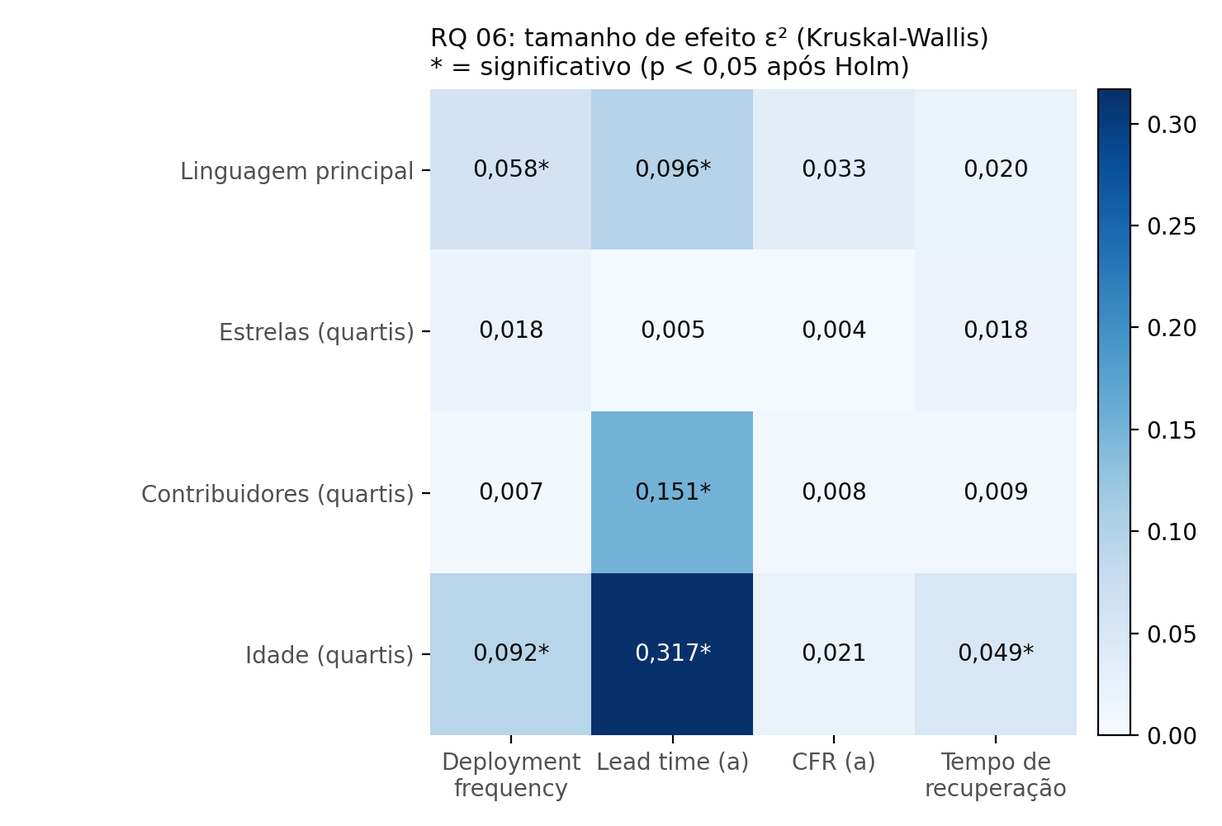
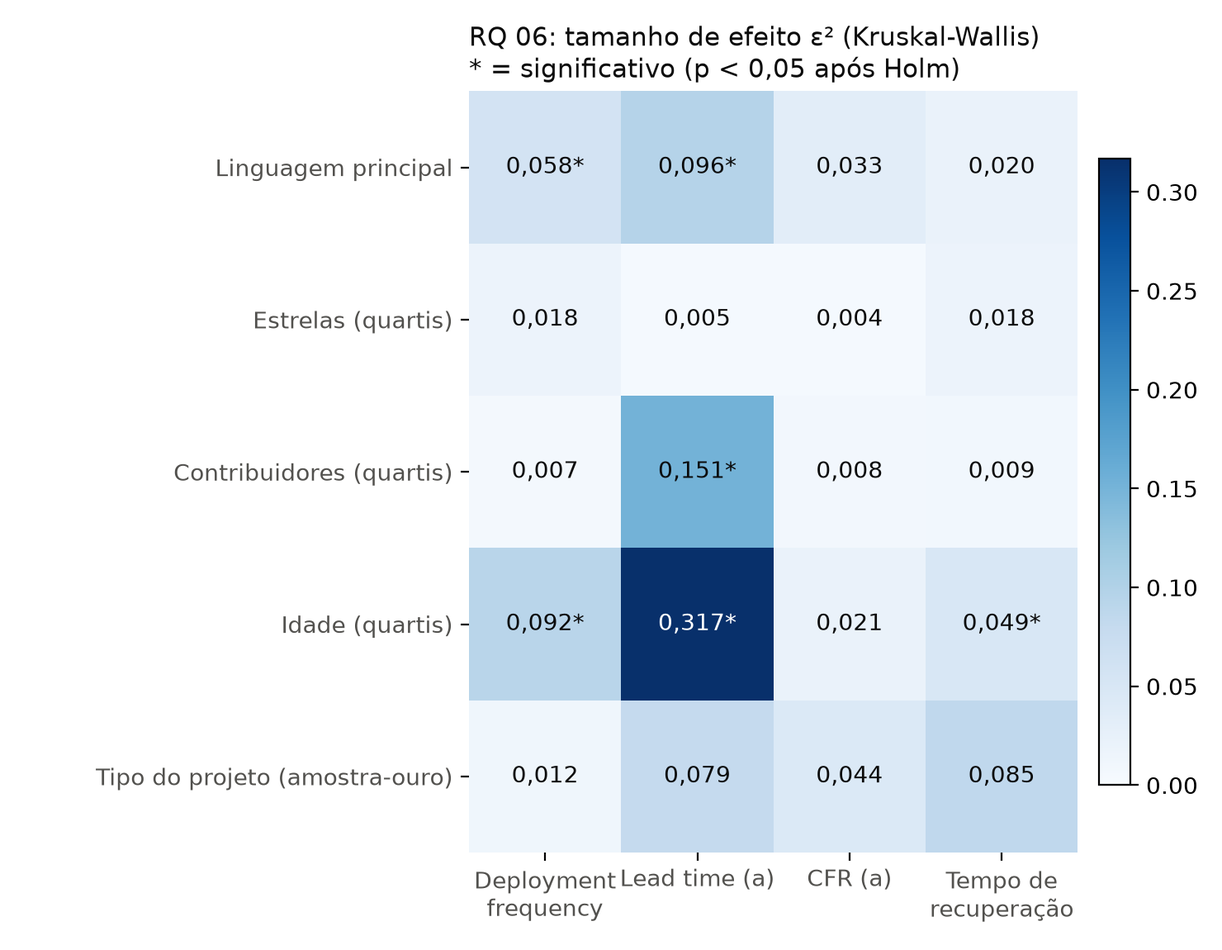
docs: concordancia, avaliacao da heuristica e tipo do projeto na RQ 06 (closes #13, closes #19)

diff --git a/reports/rascunho-artigo.md b/reports/rascunho-artigo.md
@@ -87,7 +87,7 @@ Para a análise de sensibilidade (RQ 07), as métricas são recalculadas em trê
 | C2 | release + pré-release | (b) | (b) | `deployment_frequency_with_pre` |
 | C3 | tag | (b) | (a) | `deployment_frequency_tags` |
 
-Na C2, o compare de cada release é feito contra a release anterior de qualquer tipo. Das 383 amostras, 162 publicaram ao menos uma pré-release na janela; nas demais, C1 e C2 diferem só nas variantes de lead time e CFR. Na C3, a data de cada tag é a data do commit apontado (`authoredDate` via GraphQL), como pede o guia. O lead time por tag não foi coletado, porque exigiria um compare por par de tags. Por isso a C3 usa o lead time (b) das releases e muda só a unidade da frequência de deploy. O tempo de recuperação é o mesmo nas três combinações.
+Na C2, o compare de cada release é feito contra a release anterior de qualquer tipo. Dos 383 repositórios, 162 publicaram ao menos uma pré-release na janela; nas demais, C1 e C2 diferem só nas variantes de lead time e CFR. Na C3, a data de cada tag é a data do commit apontado (`authoredDate` via GraphQL), como pede o guia. O lead time por tag não foi coletado, porque exigiria um compare por par de tags. Por isso a C3 usa o lead time (b) das releases e muda só a unidade da frequência de deploy. O tempo de recuperação é o mesmo nas três combinações.
 
 Em cada combinação, cada métrica é classificada em Elite, High, Medium ou Low pelos cortes fixos da disciplina. A categoria geral é a mediana das quatro notas (Elite = 4, High = 3, Medium = 2, Low = 1), arredondada para baixo. Repositórios sem alguma das quatro métricas ficam sem categoria geral.
 
@@ -129,21 +129,66 @@ A rotulação foi independente: cada avaliador trabalhou sozinho, sem ver a plan
 
 ### 4.3 Concordância e consenso
 
-A concordância é medida pelo **kappa de Fleiss** em cada dimensão, sobre os rótulos independentes (antes do consenso), e interpretada pela escala de Landis e Koch (1977). Os casos divergentes são discutidos em reunião, relendo as *release notes* e os commits, e a decisão e o motivo ficam registrados em `data/gold/divergencias.csv`. Se ainda assim não houver acordo, vale o rótulo mais conservador: `nao` para release corretiva, `incerto` para entrega real e `outro` para tipo do projeto. O protocolo completo está em `docs/protocolo-rotulagem.md`.
+A concordância é medida pelo **kappa de Fleiss** em cada dimensão, sobre os rótulos independentes (antes do consenso), e interpretada pela escala de Landis e Koch (1977).
 
-> *Kappa de cada dimensão e número de casos levados à reunião: a preencher após a rotulação (#8, #9).*
+**Tabela 5. Concordância entre os avaliadores, sobre os rótulos independentes.**
+
+| Dimensão | Itens | Concordância | κ de Fleiss | Landis e Koch |
+|---|---:|---:|---:|---|
+| Tipo do projeto | 60 | 91,7% | 0,875 | quase perfeita |
+| Releases são entregas reais | 60 | 95,0% | −0,026 | pobre |
+| Release corretiva | 300 | 74,0% | 0,477 | moderada |
+
+O **tipo do projeto** tem concordância quase perfeita: o README costuma deixar claro se o projeto é uma biblioteca, uma aplicação ou uma ferramenta de linha de comando.
+
+A **entrega real** mostra o paradoxo do kappa (Feinstein e Cicchetti, 1990), em que a concordância é alta e o kappa é baixo.
+- Quase todos os rótulos são "sim" (117 de 120), então dois avaliadores que respondessem "sim" quase sempre já concordariam em 95,1% dos casos por acaso.
+- O kappa mede a concordância acima do acaso, e por isso fica perto de zero.
+- As três divergências foram de um avaliador marcando "não" e o outro "sim". Os dois nunca concordaram num "não".
+
+O resultado não indica um critério ambíguo. Indica uma dimensão que quase não varia na amostra: para os dois avaliadores, as releases de praticamente todos os repositórios levam software utilizável ao usuário. Isso dá algum apoio ao uso de releases como proxy de entrega nesta amostra.
+
+A **release corretiva** tem concordância só moderada.
+- Os avaliadores divergiram em uma de cada quatro releases: um marcou 151 das 300 como corretivas, e o outro, 127.
+- Decidir se o objetivo *principal* de uma release é corrigir um defeito exige interpretar notas de versão que costumam misturar correções, melhorias e manutenção.
+- Se duas pessoas discordam nesse ponto, não se pode esperar que uma regra automática acerte muito mais. Esse é o teto prático da heurística avaliada na seção 4.4.
+
+Houve **86 divergências**: 78 de release corretiva, 5 de tipo do projeto e 3 de entrega real.
+- **O que o protocolo previa:** discutir cada caso relendo as *release notes* e os commits.
+- **O que foi feito:** na reunião de desempate, os avaliadores concluíram que um deles tinha aplicado o critério de forma mais consistente, e o rótulo desse avaliador foi adotado em todas as divergências, sem revisão caso a caso. A decisão está registrada em `data/gold/divergencias.csv` e em `docs/protocolo-rotulagem.md`.
+- **Consequência:** nos 78 casos divergentes de release corretiva (26% das 300 releases), o consenso equivale ao julgamento de um único avaliador. Isso é tratado como ameaça à validade de construto.
 
 ### 4.4 Avaliação da heurística
 
-A heurística de release corretiva é comparada com o rótulo de consenso por precisão, recall e F1, com `sim` como classe positiva. A meta é F1 ≥ 0,70. Abaixo disso, a heurística é refinada a partir dos erros e reavaliada, e cada versão testada fica registrada com o seu F1. Já existem quatro versões prontas para teste: a v1 (PATCH e commit de correção), a v2 (só o commit), a v3 (só o PATCH) e a v4 (PATCH ou commit). O tipo do projeto definido no consenso é usado como fator na RQ 06.
+A heurística de release corretiva é comparada com o rótulo de consenso por precisão, recall e F1, com `sim` como classe positiva.
+- **Releases avaliadas:** 297. As outras 3 são a primeira release do repositório e não têm com o que ser comparadas.
+- **Positivos:** o consenso marca 127 delas (42,8%) como corretivas.
+- **Meta:** F1 ≥ 0,70. Abaixo disso, a heurística é refinada a partir dos erros e reavaliada, e cada versão testada fica registrada com o seu F1.
 
-> *Precisão, recall e F1 de cada versão: a preencher após o consenso (#10).*
+**Tabela 6. Versões da heurística de release corretiva frente ao consenso (n = 297).**
+
+| Versão | Regra | Precisão | Recall | F1 |
+|---|---|---:|---:|---:|
+| v1 (usada nos resultados) | só o PATCH muda **e** há commit de correção | 0,591 | 0,614 | 0,602 |
+| v2 | há commit de correção | 0,430 | 0,898 | 0,582 |
+| v3 | só o PATCH muda | 0,605 | 0,701 | 0,650 |
+| v4 | só o PATCH muda **ou** há commit de correção | 0,442 | 0,984 | 0,610 |
+
+*Commit de correção: mensagem com `fix`, `fixes`, `fixed`, `bugfix`, `hotfix` ou `revert`. Para tags fora do SemVer, a v1 usa só o commit.*
+
+**Nenhuma das quatro versões atinge a meta.** Os erros mostram por quê:
+- **O commit de correção quase não discrimina.** 265 das 297 releases (89,2%) têm ao menos um commit com essas palavras, porque quase toda release reúne alguma correção, ainda que pequena. Por isso as versões que dependem só dele (v2) ou que o aceitam como alternativa (v4) têm recall alto e precisão baixa.
+- **O PATCH é o sinal mais informativo, mas não basta.** A v3 tem o melhor F1 (0,650). A v1, que exige as duas condições, perde recall sem ganhar precisão.
+
+> *Versões refinadas (v5 em diante) e seus F1: a preencher após o refinamento.*
+
+O tipo do projeto definido no consenso é usado como fator na RQ 06.
 
 ## 5. Resultados
 
 Esta seção apresenta os resultados das RQs 01 a 05 sobre a amostra final de **383 repositórios**, na janela de 02/10/2025 a 01/10/2026. Seguindo o enunciado, cada métrica é resumida pela mediana e pelo intervalo interquartil (IQR, de Q1 a Q3), pois as distribuições são muito assimétricas. A classificação DORA usa os cortes fixos da disciplina na combinação de referência **C1**: release estável, lead time (a), CFR (a) e tempo de recuperação. Todas as tabelas e figuras são regeneradas a partir de `data/processed/repositories_metrics.csv` por `python -m analysis.descritivas` e `python -m analysis.correlacoes`.
 
-**Tabela 5. Mediana e IQR das métricas DORA (RQs 01 a 04).**
+**Tabela 7. Mediana e IQR das métricas DORA (RQs 01 a 04).**
 
 | RQ | Métrica | Unidade | n | Mediana | Q1 | Q3 | IQR |
 |---|---|---|---:|---:|---:|---:|---:|
@@ -154,7 +199,7 @@ Esta seção apresenta os resultados das RQs 01 a 05 sobre a amostra final de **
 | RQ 03 | CFR (b): falha de entrega | proporção | 381 | 0,167 | 0,024 | 0,364 | 0,340 |
 | RQ 04 | Tempo de recuperação | horas | 364 | 2,63 | 1,11 | 6,68 | 5,56 |
 
-**Tabela 6. Classificação DORA na combinação C1 (% sobre os repositórios classificados).**
+**Tabela 8. Classificação DORA na combinação C1 (% sobre os repositórios classificados).**
 
 | Métrica | n | Elite | High | Medium | Low |
 |---|---:|---:|---:|---:|---:|
@@ -192,7 +237,7 @@ As duas variantes de CFR medem coisas diferentes e produzem valores bem diferent
 - **CFR (a), falha de pipeline:** mediana de **4,9%** (IQR de 2,3% a 11,3%). Com esse valor, 82,5% dos repositórios caem na faixa Elite (≤ 15%), o que torna o CFR (a) a métrica menos discriminante de C1.
 - **CFR (b), falha de entrega:** mediana de **16,7%** (IQR de 2,4% a 36,4%), mais de três vezes a do CFR (a) e com dispersão quase quatro vezes maior. Com essa variante, só 48,0% dos repositórios seriam Elite. Além disso, 87 repositórios (22,8%) não tiveram nenhuma release seguida de correção em até 7 dias (CFR (b) = 0).
 
-A correlação de Spearman entre as variantes é fraca: ρ = 0,138 (p = 0,007, n = 381). Um repositório com pipeline instável não tende a ser o mesmo que publica releases corretivas, o que confirma a hipótese de que as variantes não são equivalentes. O CFR (a) registra qualquer falha de CI no default branch, inclusive testes instáveis (*flaky*) e falhas de lint corrigidas em minutos, que nunca chegam ao usuário. Já o CFR (b) se aproxima mais da definição DORA, mas depende da heurística de release corretiva (v1: só o PATCH muda e há commit com `fix`, `hotfix` ou `revert`), que **ainda está sendo validada** contra a amostra-ouro. Os valores do CFR (b) podem mudar após essa validação.
+A correlação de Spearman entre as variantes é fraca: ρ = 0,138 (p = 0,007, n = 381). Um repositório com pipeline instável não tende a ser o mesmo que publica releases corretivas, o que confirma a hipótese de que as variantes não são equivalentes. O CFR (a) registra qualquer falha de CI no default branch, inclusive testes instáveis (*flaky*) e falhas de lint corrigidas em minutos, que nunca chegam ao usuário. Já o CFR (b) se aproxima mais da definição DORA, mas depende da heurística de release corretiva (v1: só o PATCH muda e há commit com `fix`, `hotfix` ou `revert`), que **não atingiu a meta de F1 ≥ 0,70** na validação contra a amostra-ouro (F1 = 0,602; seção 4.4). Os valores do CFR (b) vão mudar quando a heurística for refinada.
 
 Por censura, **1.306 das 27.571 releases (4,74%)**, de 161 repositórios, ficaram fora do denominador do CFR (b) por terem sido publicadas nos últimos 7 dias da janela. Dois repositórios ficaram sem CFR (b) porque todas as suas releases caíram nesse período: `expo/expo`, com 267 releases entre 29/09 e 01/10/2026, e `Alishahryar1/free-claude-code`. No caso do `expo/expo`, a verificação mostrou que não se trata de erro de coleta: o projeto, um monorepo, só passou a publicar releases no GitHub em 29/09/2026, e publica uma release por pacote. Isso também infla a sua deployment frequency (5,1 por semana) e é um exemplo extremo de release que não equivale a deploy.
 
@@ -206,7 +251,7 @@ Dos 36.785 episódios de falha, **382 (1,04%) foram censurados**, isto é, não 
 
 ### 5.5 RQ 05: velocidade × estabilidade
 
-**Tabela 7. Correlação de Spearman entre deployment frequency e CFR.**
+**Tabela 9. Correlação de Spearman entre deployment frequency e CFR.**
 
 | Variante do CFR | n | ρ | p-valor | Interpretação (α = 0,05) |
 |---|---:|---:|---:|---|
@@ -223,16 +268,22 @@ Parte dessa diferença pode ser um artefato da própria definição operacional.
 
 ### 5.6 RQ 06: características associadas ao desempenho
 
-Foram usados quatro fatores: linguagem principal, estrelas, contribuidores e idade do repositório. Os três últimos foram divididos pelos quartis da amostra (Q1 = 25% menores). Na linguagem, as cinco linguagens com pelo menos 30 repositórios (TypeScript, Python, Go, Rust e JavaScript) formam grupos próprios, e as demais foram reunidas em "Outras" (71 repositórios), para não haver grupos com dois ou três repositórios. O quinto fator, tipo do projeto, depende do consenso da amostra-ouro e cobre só 60 repositórios; ele será incluído depois da validação manual. Com 4 fatores e as 4 métricas de C1, são **16 testes de Kruskal-Wallis**, com p-valores corrigidos por Holm. Resultados gerados por `python -m analysis.fatores`.
+Foram usados cinco fatores: linguagem principal, estrelas, contribuidores, idade do repositório e tipo do projeto.
+- **Estrelas, contribuidores e idade** foram divididos pelos quartis da amostra (Q1 = 25% menores).
+- **Linguagem:** as cinco linguagens com pelo menos 30 repositórios (TypeScript, Python, Go, Rust e JavaScript) formam grupos próprios, e as demais foram reunidas em "Outras" (71 repositórios), para não haver grupos com dois ou três repositórios.
+- **Tipo do projeto:** vem do rótulo de consenso da amostra-ouro (seção 4) e, por isso, cobre só os 60 repositórios sorteados: 25 aplicações, 18 bibliotecas, 14 ferramentas CLI e 3 "outro".
 
-**Tabela 8. Tamanho de efeito ε² e p-valor corrigido por Holm (entre parênteses) de cada fator × métrica.**
+Com 5 fatores e as 4 métricas de C1, são **20 testes de Kruskal-Wallis**, com p-valores corrigidos por Holm numa única família. Resultados gerados por `python -m analysis.fatores`.
+
+**Tabela 10. Tamanho de efeito ε² e p-valor corrigido por Holm (entre parênteses) de cada fator × métrica.**
 
 | Fator | Deployment frequency | Lead time (a) | CFR (a) | Tempo de recuperação |
 |---|---:|---:|---:|---:|
-| Linguagem principal | **0,058** (0,006) | **0,096** (< 0,001) | 0,033 (0,277) | 0,020 (1,000) |
-| Estrelas (quartis) | 0,018 (0,657) | 0,005 (1,000) | 0,004 (1,000) | 0,018 (0,657) |
+| Linguagem principal | **0,058** (0,008) | **0,096** (< 0,001) | 0,033 (0,388) | 0,020 (1,000) |
+| Estrelas (quartis) | 0,018 (0,986) | 0,005 (1,000) | 0,004 (1,000) | 0,018 (0,986) |
 | Contribuidores (quartis) | 0,007 (1,000) | **0,151** (< 0,001) | 0,008 (1,000) | 0,009 (1,000) |
-| Idade (quartis) | **0,092** (< 0,001) | **0,317** (< 0,001) | 0,021 (0,430) | **0,049** (0,006) |
+| Idade (quartis) | **0,092** (< 0,001) | **0,317** (< 0,001) | 0,021 (0,621) | **0,049** (0,008) |
+| Tipo do projeto (n = 60) | 0,012 (1,000) | 0,079 (1,000) | 0,044 (1,000) | 0,085 (1,000) |
 
 *Em negrito, os testes significativos (α = 0,05 após Holm). Escala usual de ε²: < 0,01 desprezível; < 0,08 pequeno; < 0,26 médio; ≥ 0,26 grande.*
 
@@ -240,7 +291,7 @@ Foram usados quatro fatores: linguagem principal, estrelas, contribuidores e ida
 
 *Figura 3. Tamanho de efeito ε² de cada fator × métrica; o asterisco marca os testes significativos após a correção de Holm.*
 
-Seis dos 16 testes são significativos. O fator mais forte é a **idade**. Os repositórios mais novos (Q1, menos de 2,6 anos) têm mediana de lead time (a) de **2,9 dias**, contra **42,3 dias** nos mais antigos (Q4, mais de 10,6 anos). O efeito é grande (ε² = 0,317; Cliff's δ entre Q4 e Q1 = 0,800). Os mais novos também publicam mais (0,88 contra 0,36 release por semana, δ = −0,441) e recuperam o pipeline mais rápido (1,5 contra 3,3 horas, δ = 0,321).
+Seis dos 20 testes são significativos. O fator mais forte é a **idade**. Os repositórios mais novos (Q1, menos de 2,6 anos) têm mediana de lead time (a) de **2,9 dias**, contra **42,3 dias** nos mais antigos (Q4, mais de 10,6 anos). O efeito é grande (ε² = 0,317; Cliff's δ entre Q4 e Q1 = 0,800). Os mais novos também publicam mais (0,88 contra 0,36 release por semana, δ = −0,441) e recuperam o pipeline mais rápido (1,5 contra 3,3 horas, δ = 0,321).
 
 O número de **contribuidores** está associado só ao lead time. O quartil com mais contribuidores (Q4, mais de 948) tem mediana de 32,1 dias, contra 5,5 dias no quartil com menos (Q1, menos de 208), com δ = 0,587 (grande). Nas outras três métricas, os quartis praticamente não diferem.
 
@@ -248,11 +299,15 @@ Na **linguagem**, as diferenças aparecem na frequência de deploy e no lead tim
 
 A **popularidade** (estrelas) não tem associação significativa com nenhuma métrica, e seus efeitos são todos desprezíveis ou pequenos (ε² ≤ 0,018). O **CFR (a)** também não difere entre os grupos de nenhum fator. Dois testes de CFR (a) seriam significativos sem a correção (linguagem, p = 0,028, e idade, p = 0,048), mas deixam de ser com Holm. Esse é exatamente o tipo de falso positivo que a correção para comparações múltiplas evita.
 
+O **tipo do projeto** também não tem associação significativa com nenhuma métrica.
+- **O que as medianas sugerem:** bibliotecas teriam lead time maior (15,4 dias, contra 9,2 nas aplicações e 12,1 nas ferramentas CLI) e recuperação mais lenta (2,9 horas, contra 1,5 e 1,1). Os efeitos vão de pequeno a médio (ε² de 0,012 a 0,085).
+- **Por que isso não basta:** com 60 repositórios, e só 3 no grupo "outro", o teste tem pouco poder para detectar diferenças desse tamanho, e nenhum p corrigido fica abaixo de 1,000. A ausência de significância aqui não é evidência de que o tipo do projeto não importa. Ela mostra que a amostra-ouro é pequena demais para responder a essa pergunta.
+
 ### 5.7 RQ 07: sensibilidade à definição operacional
 
 As três combinações da Tabela 3 foram classificadas pelos mesmos cortes da disciplina. Os resultados foram gerados por `python -m analysis.sensibilidade`.
 
-**Tabela 9. Classificação DORA geral em cada combinação.**
+**Tabela 11. Classificação DORA geral em cada combinação.**
 
 | Combinação | n | Elite | High | Medium | Low |
 |---|---:|---:|---:|---:|---:|
@@ -260,7 +315,7 @@ As três combinações da Tabela 3 foram classificadas pelos mesmos cortes da di
 | C2: release + pré-release, lead time (b), CFR (b) | 362 | 7 (1,9%) | 148 (40,9%) | 191 (52,8%) | 16 (4,4%) |
 | C3: tag, lead time (b), CFR (a) | 364 | 23 (6,3%) | 187 (51,4%) | 143 (39,3%) | 11 (3,0%) |
 
-**Tabela 10. Repositórios que mudam de categoria e kappa de Cohen ponderado (linear) entre as combinações.**
+**Tabela 12. Repositórios que mudam de categoria e kappa de Cohen ponderado (linear) entre as combinações.**
 
 | Métrica | C1 × C2: mudaram | κ | C1 × C3: mudaram | κ | C2 × C3: mudaram | κ |
 |---|---:|---:|---:|---:|---:|---:|
@@ -288,7 +343,7 @@ Uma observação de método: o kappa ponderado depende da ordem das categorias. 
 
 O *rework rate* é a proporção de releases corretivas sobre o total de releases estáveis da janela, usando a mesma heurística de release corretiva do CFR (b) (v1). Resultados gerados por `python -m analysis.rework`.
 
-**Tabela 11. Rework rate e CFR (b).**
+**Tabela 13. Rework rate e CFR (b).**
 
 | Métrica | Definição | n | Mediana | Q1 | Q3 | IQR | Repositórios com valor 0 |
 |---|---|---:|---:|---:|---:|---:|---:|
@@ -314,7 +369,7 @@ O rework rate mede, portanto, **quanto do esforço de entrega é gasto com retra
 
 ### 6.1 Hipóteses e resultados
 
-**Tabela 12. Hipóteses informais da Introdução e o que os dados mostraram.**
+**Tabela 14. Hipóteses informais da Introdução e o que os dados mostraram.**
 
 | RQ | Hipótese | Resultado |
 |---|---|---|
@@ -323,7 +378,7 @@ O rework rate mede, portanto, **quanto do esforço de entrega é gasto com retra
 | 03 | CFR (a) e CFR (b) não são equivalentes | **Confirmada.** Medianas de 4,9% e 16,7%, ρ = 0,138 entre elas e κ = 0,034 nas categorias |
 | 04 | Parte dos episódios fica censurada | **Confirmada, em escala pequena** (1,04% dos episódios) |
 | 05 | Relação fraca ou inexistente entre frequência e falha | **Depende do proxy.** Fraca com o CFR (a) (ρ = 0,161), moderada com o CFR (b) (ρ = 0,507) |
-| 06 | Popularidade, idade, contribuidores e linguagem associados ao desempenho | **Parcial.** Idade, contribuidores e linguagem, sim; popularidade, não |
+| 06 | Popularidade, idade, contribuidores e linguagem associados ao desempenho | **Parcial.** Idade, contribuidores e linguagem, sim; popularidade, não. O tipo do projeto não teve diferença significativa, mas só cobre 60 repositórios |
 | 07 | As categorias podem mudar com a definição | **Confirmada.** 20,9% a 27,3% dos repositórios mudam de categoria geral |
 
 ### 6.2 O que surpreendeu
@@ -340,14 +395,13 @@ A RQ 07 permite separar o que é robusto do que depende da definição:
 
 - **Robustas:** a frequência de deploy e o tempo de recuperação. A frequência muda pouco entre as definições (κ de 0,64 a 0,84), e as conclusões da RQ 01 (cauda longa, mediana de cerca de uma release a cada duas semanas) se mantêm. O tempo de recuperação não depende de nenhuma das escolhas testadas.
 - **Moderadamente robustas:** o lead time. As categorias mudam em cerca de 40% dos repositórios entre as variantes (a) e (b), mas quase sempre para uma faixa vizinha. A associação com a idade aparece nas duas variantes (ε² = 0,317 na (a) e 0,326 na (b)), assim como a associação com os contribuidores (0,151 e 0,199).
-- **Não robustas:** tudo o que envolve CFR. A categoria de CFR muda em mais da metade dos repositórios, a RQ 05 muda de "relação fraca" para "relação moderada" conforme o proxy, e a RQ 06 também muda. Com o CFR (a), a idade não tem efeito significativo. Com o CFR (b), numa análise exploratória fora da família corrigida, o efeito da idade passa a ser grande (ε² = 0,183): os repositórios novos teriam mais releases corretivas. Esse resultado é coerente com a RQ 05, já que os repositórios novos também publicam mais e, por construção, têm mais chances de ter duas releases em menos de 7 dias.
+- **Não robustas:** tudo o que envolve CFR. A categoria de CFR muda em mais da metade dos repositórios, a RQ 05 muda de "relação fraca" para "relação moderada" conforme o proxy, e a RQ 06 também muda. Com o CFR (a), a idade não tem efeito significativo. Com o CFR (b), numa análise exploratória fora da família corrigida, o efeito da idade passa a ser médio (ε² = 0,183): os repositórios novos teriam mais releases corretivas. Esse resultado é coerente com a RQ 05, já que os repositórios novos também publicam mais e, por construção, têm mais chances de ter duas releases em menos de 7 dias.
 
 Em resumo, a **classificação geral** de um repositório é razoavelmente estável (κ ≥ 0,56 e mudanças quase sempre de um nível), mas as conclusões sobre **estabilidade** dependem da escolha do proxy de falha. Afirmações como "projetos que entregam mais rápido falham mais" ou "não falham mais" não podem ser feitas com esses dados sem dizer qual CFR foi usado. Isso reforça a principal limitação do estudo: o GitHub não registra falhas em produção, e cada proxy captura uma parte diferente do conceito.
 
 ## 7. Limitações e próximos passos
 
-- A heurística de release corretiva, que sustenta o CFR (b), o rework rate e a C2, ainda depende da validação contra a amostra-ouro. Se ela for refinada, as RQs 03 (b), 05, 07 e 08 serão recalculadas.
-- O tipo do projeto será incluído na RQ 06 depois do consenso da amostra-ouro, com a ressalva de que cobre só 60 repositórios.
+- A heurística de release corretiva, que sustenta o CFR (b), o rework rate e a C2, não atingiu F1 ≥ 0,70 em nenhuma das quatro versões testadas (seção 4.4). Ela está sendo refinada, e as RQs 03 (b), 05, 07 e 08 serão recalculadas com a versão final.
 - As ameaças à validade (construto, interna, externa e de conclusão) serão detalhadas na entrega final, com base na validação manual e na análise de sensibilidade.
 
 ## Referências
@@ -355,3 +409,5 @@ Em resumo, a **classificação geral** de um repositório é razoavelmente está
 - DORA. *DORA's software delivery metrics: the four keys*.
 - Forsgren, N.; Humble, J.; Kim, G. *Accelerate: The Science of Lean Software and DevOps*.
 - Wohlin, C. et al. *Experimentation in Software Engineering*.
+- Landis, J. R.; Koch, G. G. *The measurement of observer agreement for categorical data*. Biometrics, 1977.
+- Feinstein, A. R.; Cicchetti, D. V. *High agreement but low kappa: I. The problems of two paradoxes*. Journal of Clinical Epidemiology, 1990.

diff --git a/reports/resultados/rq06/rq06.md b/reports/resultados/rq06/rq06.md
@@ -1,27 +1,31 @@
 # Resultados: RQ 06
 
-Gerado por `python -m analysis.fatores` a partir de `repositories_metrics.csv` (383 repositórios). 16 testes; p-valores corrigidos por Holm; α = 0,05.
+Gerado por `python -m analysis.fatores` a partir de `repositories_metrics.csv` (383 repositórios). 20 testes; p-valores corrigidos por Holm; α = 0,05.
 
 ## Testes por fator × métrica
 
 | Fator | Métrica | Teste | n | Estatística | p | p (Holm) | Efeito | δ (Q4 × Q1) |
 |---|---|---|---:|---:|---:|---:|---|---:|
-| Linguagem principal | Deployment frequency | Kruskal-Wallis | 383 | H = 22,12 | < 0,001 | **0,006** | ε² = 0,058 (pequeno) | – |
+| Linguagem principal | Deployment frequency | Kruskal-Wallis | 383 | H = 22,12 | < 0,001 | **0,008** | ε² = 0,058 (pequeno) | – |
 | Linguagem principal | Lead time (a) | Kruskal-Wallis | 383 | H = 36,57 | < 0,001 | **< 0,001** | ε² = 0,096 (médio) | – |
-| Linguagem principal | CFR (a) | Kruskal-Wallis | 383 | H = 12,57 | 0,028 | 0,277 | ε² = 0,033 (pequeno) | – |
+| Linguagem principal | CFR (a) | Kruskal-Wallis | 383 | H = 12,57 | 0,028 | 0,388 | ε² = 0,033 (pequeno) | – |
 | Linguagem principal | Tempo de recuperação | Kruskal-Wallis | 364 | H = 7,19 | 0,207 | 1,000 | ε² = 0,020 (pequeno) | – |
-| Estrelas (quartis) | Deployment frequency | Kruskal-Wallis | 383 | H = 6,70 | 0,082 | 0,657 | ε² = 0,018 (pequeno) | 0,206 |
+| Estrelas (quartis) | Deployment frequency | Kruskal-Wallis | 383 | H = 6,70 | 0,082 | 0,986 | ε² = 0,018 (pequeno) | 0,206 |
 | Estrelas (quartis) | Lead time (a) | Kruskal-Wallis | 383 | H = 1,86 | 0,602 | 1,000 | ε² = 0,005 (desprezível) | -0,104 |
 | Estrelas (quartis) | CFR (a) | Kruskal-Wallis | 383 | H = 1,57 | 0,667 | 1,000 | ε² = 0,004 (desprezível) | 0,066 |
-| Estrelas (quartis) | Tempo de recuperação | Kruskal-Wallis | 364 | H = 6,70 | 0,082 | 0,657 | ε² = 0,018 (pequeno) | -0,016 |
+| Estrelas (quartis) | Tempo de recuperação | Kruskal-Wallis | 364 | H = 6,70 | 0,082 | 0,986 | ε² = 0,018 (pequeno) | -0,016 |
 | Contribuidores (quartis) | Deployment frequency | Kruskal-Wallis | 383 | H = 2,67 | 0,446 | 1,000 | ε² = 0,007 (desprezível) | 0,134 |
 | Contribuidores (quartis) | Lead time (a) | Kruskal-Wallis | 383 | H = 57,77 | < 0,001 | **< 0,001** | ε² = 0,151 (médio) | 0,587 |
 | Contribuidores (quartis) | CFR (a) | Kruskal-Wallis | 383 | H = 3,09 | 0,379 | 1,000 | ε² = 0,008 (desprezível) | 0,108 |
 | Contribuidores (quartis) | Tempo de recuperação | Kruskal-Wallis | 364 | H = 3,33 | 0,343 | 1,000 | ε² = 0,009 (desprezível) | 0,101 |
 | Idade (quartis) | Deployment frequency | Kruskal-Wallis | 383 | H = 35,23 | < 0,001 | **< 0,001** | ε² = 0,092 (médio) | -0,441 |
 | Idade (quartis) | Lead time (a) | Kruskal-Wallis | 383 | H = 121,04 | < 0,001 | **< 0,001** | ε² = 0,317 (grande) | 0,800 |
-| Idade (quartis) | CFR (a) | Kruskal-Wallis | 383 | H = 7,92 | 0,048 | 0,430 | ε² = 0,021 (pequeno) | -0,194 |
-| Idade (quartis) | Tempo de recuperação | Kruskal-Wallis | 364 | H = 17,84 | < 0,001 | **0,006** | ε² = 0,049 (pequeno) | 0,321 |
+| Idade (quartis) | CFR (a) | Kruskal-Wallis | 383 | H = 7,92 | 0,048 | 0,621 | ε² = 0,021 (pequeno) | -0,194 |
+| Idade (quartis) | Tempo de recuperação | Kruskal-Wallis | 364 | H = 17,84 | < 0,001 | **0,008** | ε² = 0,049 (pequeno) | 0,321 |
+| Tipo do projeto (amostra-ouro) | Deployment frequency | Kruskal-Wallis | 60 | H = 0,70 | 0,874 | 1,000 | ε² = 0,012 (pequeno) | – |
+| Tipo do projeto (amostra-ouro) | Lead time (a) | Kruskal-Wallis | 60 | H = 4,68 | 0,197 | 1,000 | ε² = 0,079 (pequeno) | – |
+| Tipo do projeto (amostra-ouro) | CFR (a) | Kruskal-Wallis | 60 | H = 2,62 | 0,454 | 1,000 | ε² = 0,044 (pequeno) | – |
+| Tipo do projeto (amostra-ouro) | Tempo de recuperação | Kruskal-Wallis | 58 | H = 4,83 | 0,184 | 1,000 | ε² = 0,085 (médio) | – |
 
 ## Medianas por grupo
 
@@ -64,6 +68,16 @@ Gerado por `python -m analysis.fatores` a partir de `repositories_metrics.csv` (
 | Lead time (a) | 2,86 | 8,72 | 16,53 | 42,33 |
 | CFR (a) | 6,1% | 5,7% | 4,2% | 4,1% |
 | Tempo de recuperação | 1,53 | 2,51 | 3,52 | 3,33 |
+
+**Tipo do projeto (amostra-ouro)**
+
+| Métrica | aplicacao | biblioteca | cli | outro |
+|---|---:|---:|---:|---:|
+| n | 25 | 18 | 14 | 3 |
+| Deployment frequency | 0,50 | 0,42 | 0,48 | 0,46 |
+| Lead time (a) | 9,15 | 15,35 | 12,05 | 0,84 |
+| CFR (a) | 4,8% | 4,6% | 3,8% | 11,1% |
+| Tempo de recuperação | 1,47 | 2,88 | 1,10 | 0,65 |
 
 ## Comparações par a par (só nos testes significativos)
 
